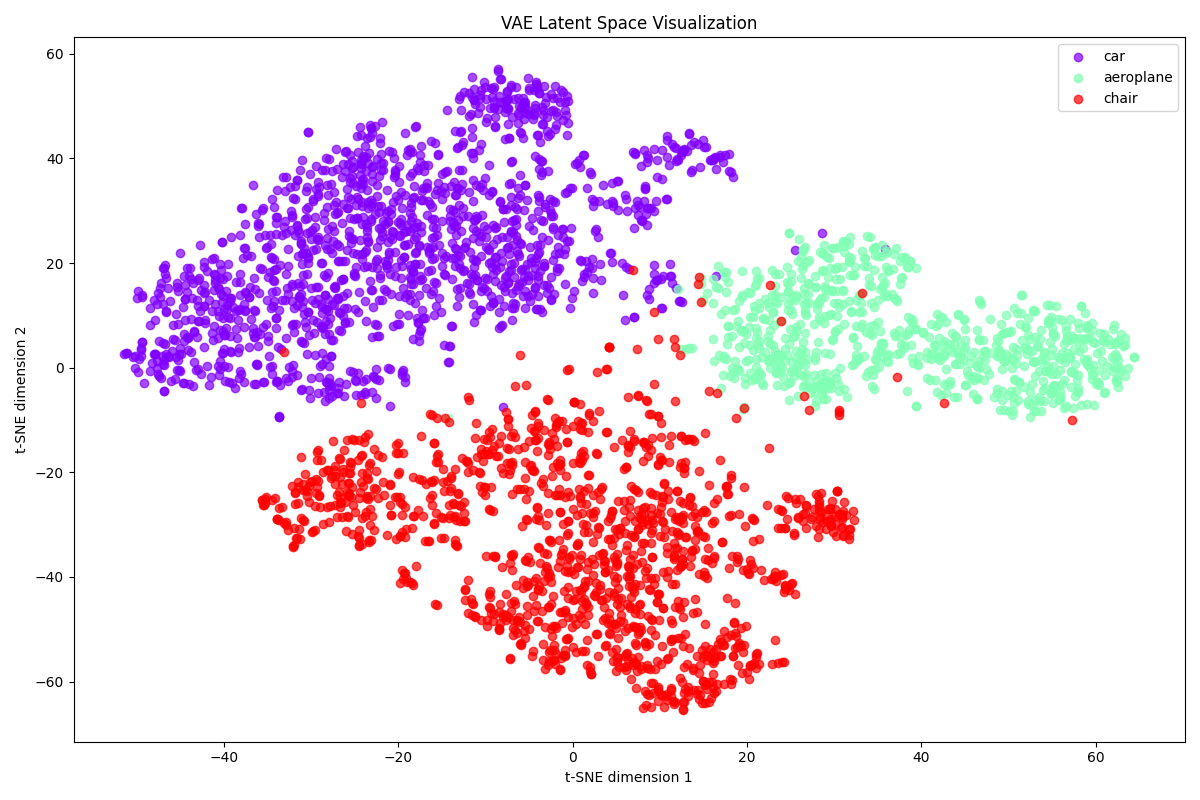
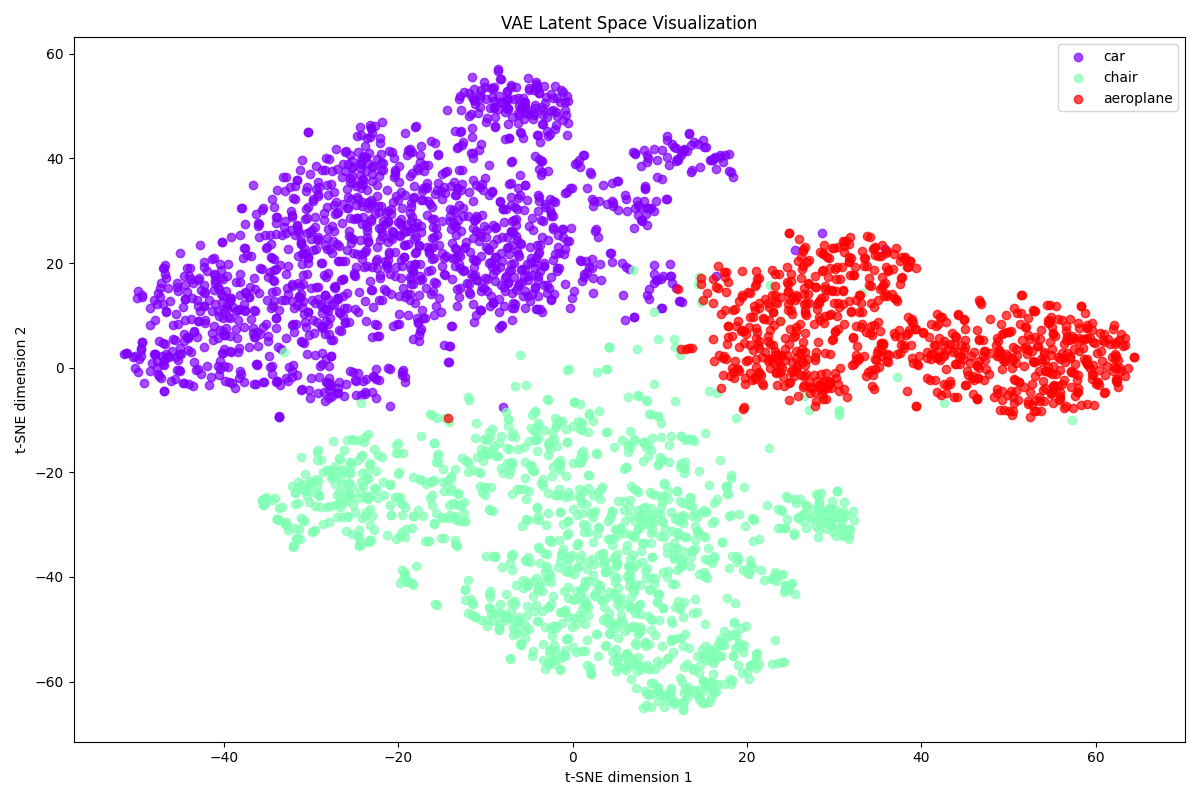
intercative latent space visualization

diff --git a/interactive-latent-space-visualization.py b/interactive-latent-space-visualization.py
@@ -1,0 +1,165 @@
+import torch
+import torch.nn as nn
+import torchvision.transforms as transforms
+from torch.utils.data import DataLoader
+from sklearn.manifold import TSNE
+import matplotlib.pyplot as plt
+import numpy as np
+import json
+from tqdm import tqdm
+import matplotlib.backends.backend_agg as agg
+import pygame
+from pygame.locals import *
+
+from config import cfg
+from models.encoder import Encoder
+from models.decoder import Decoder
+from models.merger import Merger
+from models.refiner import Refiner
+import utils.data_loaders
+import utils.data_transforms
+import utils.binvox_visualization
+
+def visualize_latent_space_interactive(cfg, encoder, decoder,merger,refiner, test_data_loader, taxonomies):
+    encoder.eval()
+    decoder.eval()
+    merger.eval()
+    refiner.eval()
+    
+    latent_vectors = []
+    labels = []
+    save_dir = '/home/matteo/AI_and_Robotics/CV/pix2vox-gen/visualization'
+    with torch.no_grad():
+        for taxonomy_id, sample_name, rendering_images, _ in tqdm(test_data_loader, desc="Processing samples"):
+            rendering_images = rendering_images.cuda()
+            mu, _, _ = encoder(rendering_images)
+            latent_vectors.append(mu.cpu().numpy())
+            labels.extend([taxonomies[tid]['taxonomy_name'] for tid in taxonomy_id])
+
+    latent_vectors = np.concatenate(latent_vectors, axis=0)
+    
+    # Perform t-SNE
+    tsne = TSNE(n_components=2, random_state=42)
+    latent_2d = tsne.fit_transform(latent_vectors)
+
+    # Create a mapping of unique labels to integers
+    unique_labels = list(set(labels))
+    label_to_int = {label: i for i, label in enumerate(unique_labels)}
+    color_indices = [label_to_int[label] for label in labels]
+
+    # Initialize Pygame
+    pygame.init()
+    width, height = 800, 600
+    screen = pygame.display.set_mode((width, height))
+    pygame.display.set_caption("Interactive Latent Space Visualization")
+
+    # Create a Matplotlib figure
+    fig, ax = plt.subplots(figsize=(8, 6))
+    scatter = ax.scatter(latent_2d[:, 0], latent_2d[:, 1], c=color_indices, cmap='viridis', alpha=0.7)
+    ax.set_title("VAE Latent Space Visualization")
+    ax.set_xlabel("t-SNE dimension 1")
+    ax.set_ylabel("t-SNE dimension 2")
+
+    # Add a colorbar legend
+    cbar = plt.colorbar(scatter)
+    cbar.set_ticks(range(len(unique_labels)))
+    cbar.set_ticklabels(unique_labels)
+
+    # Convert Matplotlib figure to Pygame surface
+    canvas = agg.FigureCanvasAgg(fig)
+    canvas.draw()
+    renderer = canvas.get_renderer()
+    raw_data = renderer.tostring_rgb()
+    size = canvas.get_width_height()
+    surf = pygame.image.fromstring(raw_data, size, "RGB")
+
+    running = True
+    while running:
+        screen.fill((255, 255, 255))
+        screen.blit(surf, (0, 0))
+        pygame.display.flip()
+
+        for event in pygame.event.get():
+            if event.type == QUIT:
+                running = False
+            elif event.type == MOUSEBUTTONDOWN:
+                x, y = event.pos
+                # Convert screen coordinates to data coordinates
+                inv = ax.transData.inverted()
+                data_coords = inv.transform((x, y))
+                
+                # Find the nearest point in latent_2d
+                distances = np.sum((latent_2d - data_coords)**2, axis=1)
+                nearest_idx = np.argmin(distances)
+                
+                # Get the corresponding latent vector
+                selected_latent_vector = torch.from_numpy(latent_vectors[nearest_idx]).unsqueeze(0).cuda()
+                
+                # Generate 3D model from the latent vector
+                with torch.no_grad():
+                    raw_features, generated_volume = decoder(selected_latent_vector)
+                    generated_volume = merger(raw_features, generated_volume)
+                    generated_volume = refiner(generated_volume)
+                    #generated_volume = torch.mean(generated_volume, dim=1)
+
+                # Visualize the generated 3D model
+                gv = generated_volume.cpu().numpy()
+                rendering_views = utils.binvox_visualization.get_volume_views_cv2(gv, save_dir, 0)
+                
+                # Display the generated 3D model
+                plt.figure()
+                plt.imshow(rendering_views)
+                plt.title(f"Generated 3D Model (Label: {labels[nearest_idx]})")
+                plt.axis('off')
+                plt.show()
+
+    pygame.quit()
+
+def main():
+    # Load taxonomies
+    with open(cfg.DATASETS[cfg.DATASET.TEST_DATASET.upper()].TAXONOMY_FILE_PATH, encoding='utf-8') as file:
+        taxonomies = json.loads(file.read())
+    taxonomies = {t['taxonomy_id']: t for t in taxonomies}
+
+    # Set up data transforms
+    IMG_SIZE = cfg.CONST.IMG_H, cfg.CONST.IMG_W
+    CROP_SIZE = cfg.CONST.CROP_IMG_H, cfg.CONST.CROP_IMG_W
+    test_transforms = utils.data_transforms.Compose([
+        utils.data_transforms.CenterCrop(IMG_SIZE, CROP_SIZE),
+        utils.data_transforms.RandomBackground(cfg.TEST.RANDOM_BG_COLOR_RANGE),
+        utils.data_transforms.Normalize(mean=cfg.DATASET.MEAN, std=cfg.DATASET.STD),
+        utils.data_transforms.ToTensor(),
+    ])
+
+    # Set up data loader
+    dataset_loader = utils.data_loaders.DATASET_LOADER_MAPPING[cfg.DATASET.TEST_DATASET](cfg)
+    test_data_loader = torch.utils.data.DataLoader(
+        dataset=dataset_loader.get_dataset(utils.data_loaders.DatasetType.TEST, cfg.CONST.N_VIEWS_RENDERING, test_transforms),
+        batch_size=cfg.CONST.BATCH_SIZE,
+        num_workers=1,
+        pin_memory=True,
+        shuffle=False
+    )
+
+    # Set up network
+    encoder = Encoder(cfg)
+    decoder = Decoder(cfg)
+    merger = Merger(cfg)
+    refiner = Refiner(cfg)
+    if torch.cuda.is_available():
+        encoder = torch.nn.DataParallel(encoder).cuda()
+        decoder = torch.nn.DataParallel(decoder).cuda()
+        merger = torch.nn.DataParallel(merger).cuda()
+        refiner = torch.nn.DataParallel(refiner).cuda()
+
+    # Load pre-trained weights
+    print('Loading weights from %s ...' % cfg.CONST.WEIGHTS)
+    checkpoint = torch.load(cfg.CONST.WEIGHTS)
+    encoder.load_state_dict(checkpoint['encoder_state_dict'])
+    decoder.load_state_dict(checkpoint['decoder_state_dict'])
+
+    # Visualize latent space
+    visualize_latent_space_interactive(cfg, encoder, decoder,merger,refiner, test_data_loader, taxonomies)
+
+if __name__ == '__main__':
+    main()

diff --git a/visualization_claude.py b/visualization_claude.py
@@ -13,7 +13,7 @@ from models.encoder import Encoder
 import utils.data_loaders
 import utils.data_transforms
 
-def visualize_latent_space(cfg, encoder, test_data_loader, taxonomies):
+def visualize_latent_space_2d(cfg, encoder, test_data_loader, taxonomies):
     encoder.eval()
     latent_vectors = []
     labels = []
@@ -48,6 +48,45 @@ def visualize_latent_space(cfg, encoder, test_data_loader, taxonomies):
     plt.ylabel("t-SNE dimension 2")
     plt.tight_layout()
     plt.savefig("latent_space_visualization.png")
+    plt.close()
+    
+def vizualize_latent_space_3d(cfg, encoder, test_data_loader, taxonomies):
+    encoder.eval()
+    latent_vectors = []
+    labels = []
+    
+    with torch.no_grad():
+        for taxonomy_id, sample_name, rendering_images, _ in tqdm(test_data_loader, desc="Processing samples"):
+            rendering_images = rendering_images.cuda()
+            mu, _, _ = encoder(rendering_images)
+            latent_vectors.append(mu.cpu().numpy())
+            labels.extend([taxonomies[tid]['taxonomy_name'] for tid in taxonomy_id])
+
+    latent_vectors = np.concatenate(latent_vectors, axis=0)
+    
+    print(f"Number of latent vectors: {len(latent_vectors)}")
+    print(f"Number of labels: {len(labels)}")
+    
+    # Perform t-SNE
+    tsne = TSNE(n_components=3, random_state=42)
+    latent_3d = tsne.fit_transform(latent_vectors)
+
+    # Plot
+    fig = plt.figure(figsize=(12, 8))
+    ax = fig.add_subplot(111, projection='3d')
+    unique_labels = list(set(labels))
+    colors = plt.cm.rainbow(np.linspace(0, 1, len(unique_labels)))
+    for label, color in zip(unique_labels, colors):
+        mask = np.array(labels) == label
+        ax.scatter(latent_3d[mask, 0], latent_3d[mask, 1], latent_3d[mask, 2], c=[color], label=label, alpha=0.7)
+    
+    ax.legend()
+    ax.set_title("VAE Latent Space Visualization")
+    ax.set_xlabel("t-SNE dimension 1")
+    ax.set_ylabel("t-SNE dimension 2")
+    ax.set_zlabel("t-SNE dimension 3")
+    plt.tight_layout()
+    plt.savefig("latent_space_visualization_3d.png")
     plt.close()
 
 def main():
@@ -87,7 +126,8 @@ def main():
     encoder.load_state_dict(checkpoint['encoder_state_dict'])
 
     # Visualize latent space
-    visualize_latent_space(cfg, encoder, test_data_loader, taxonomies)
+    visualize_latent_space_2d(cfg, encoder, test_data_loader, taxonomies)
+    vizualize_latent_space_3d(cfg, encoder, test_data_loader, taxonomies)
 
 if __name__ == '__main__':
     main()
